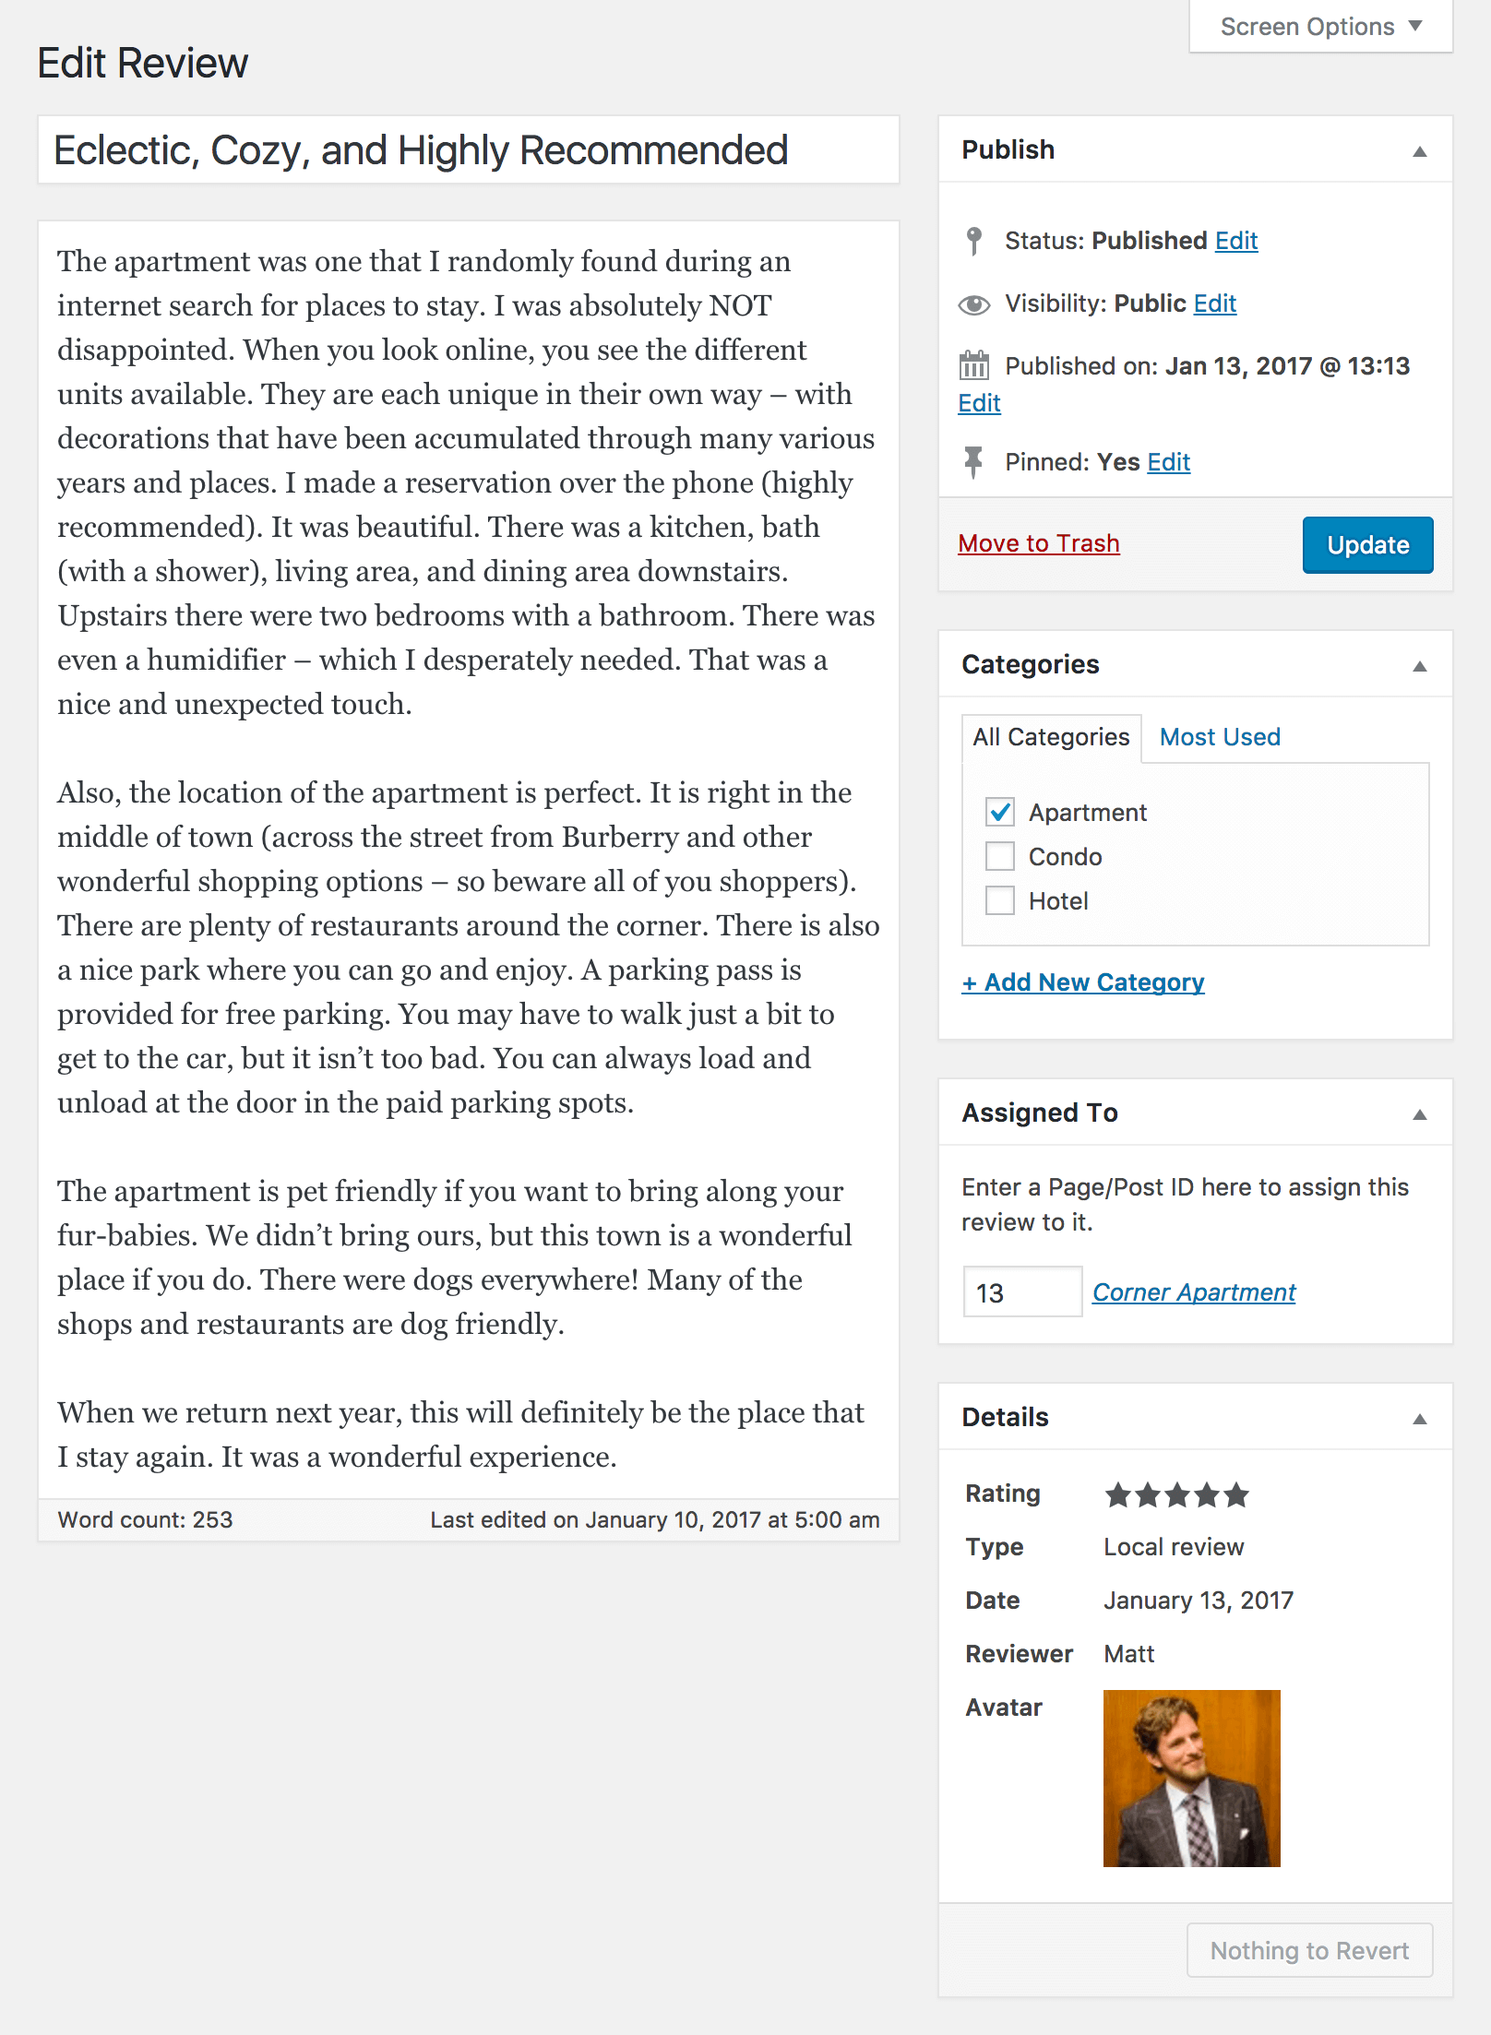
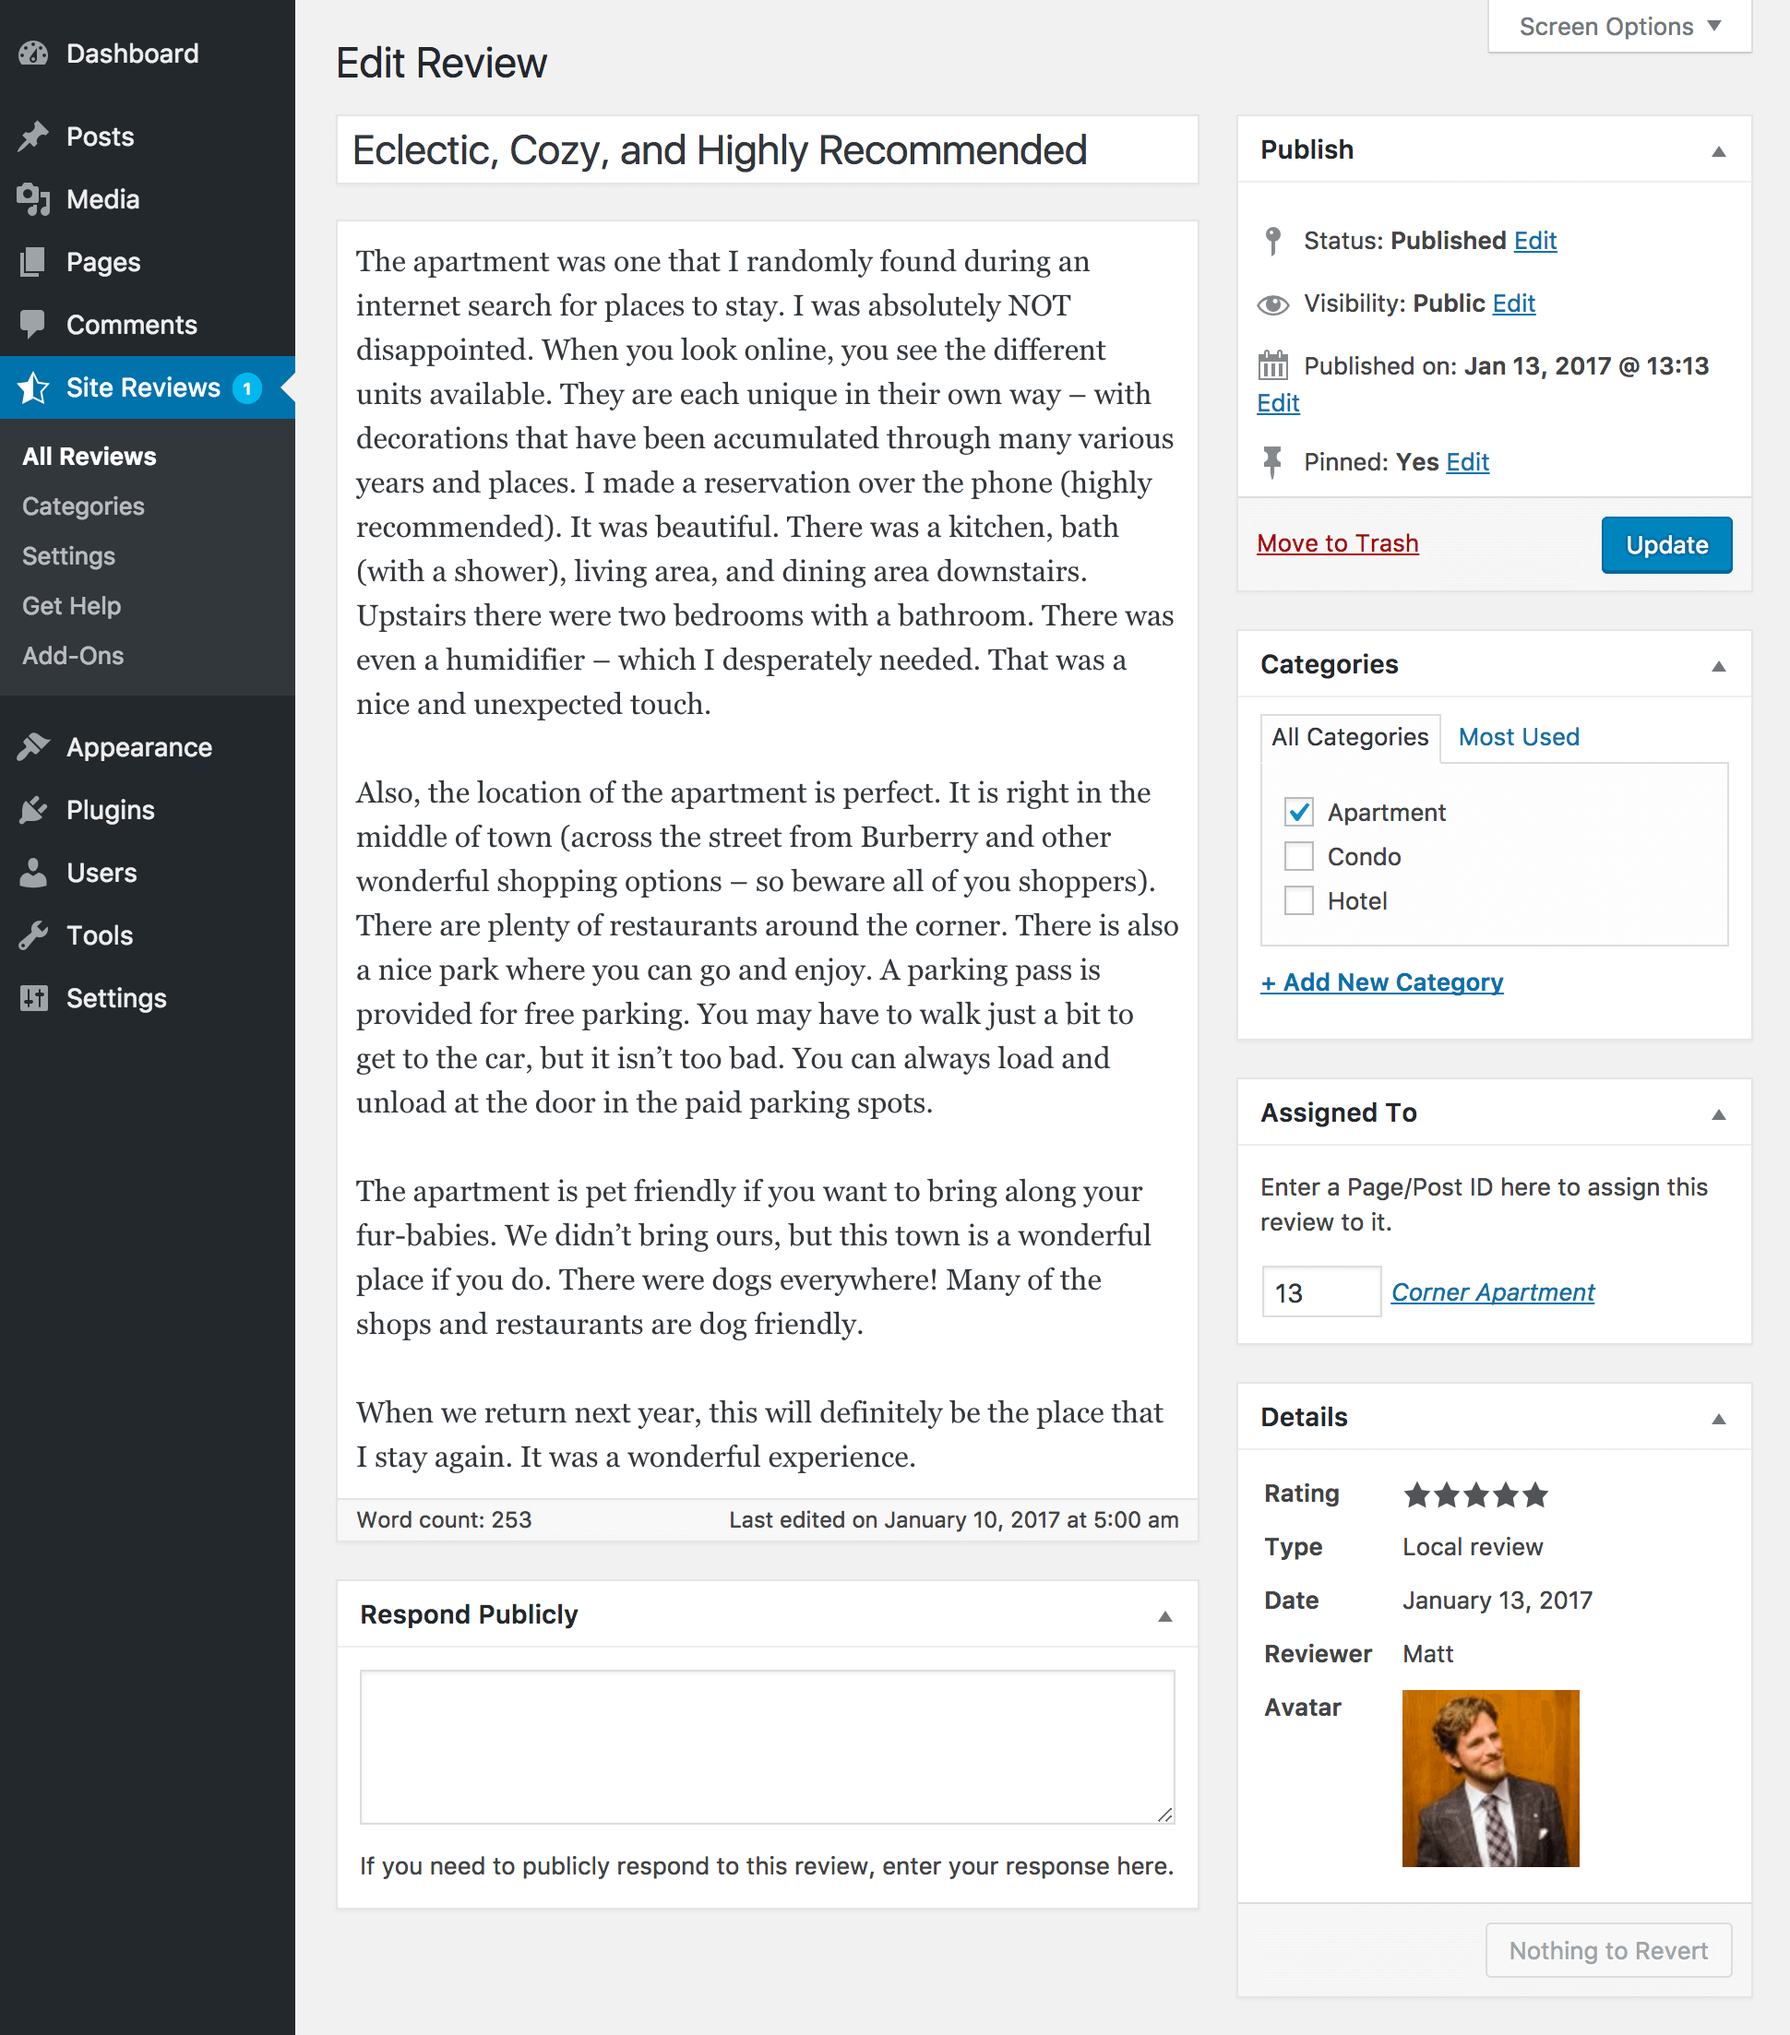
update screenshots

diff --git a/CHANGELOG.md b/CHANGELOG.md
@@ -20,6 +20,9 @@ The format is based on [Keep a Changelog](http://keepachangelog.com/) and this p
 
 ## [2.4.1] = 2017-07-22
 
+### Changed
+- Update screenshots
+
 ### Fixed
 - Fix the schema URL for a page
 
